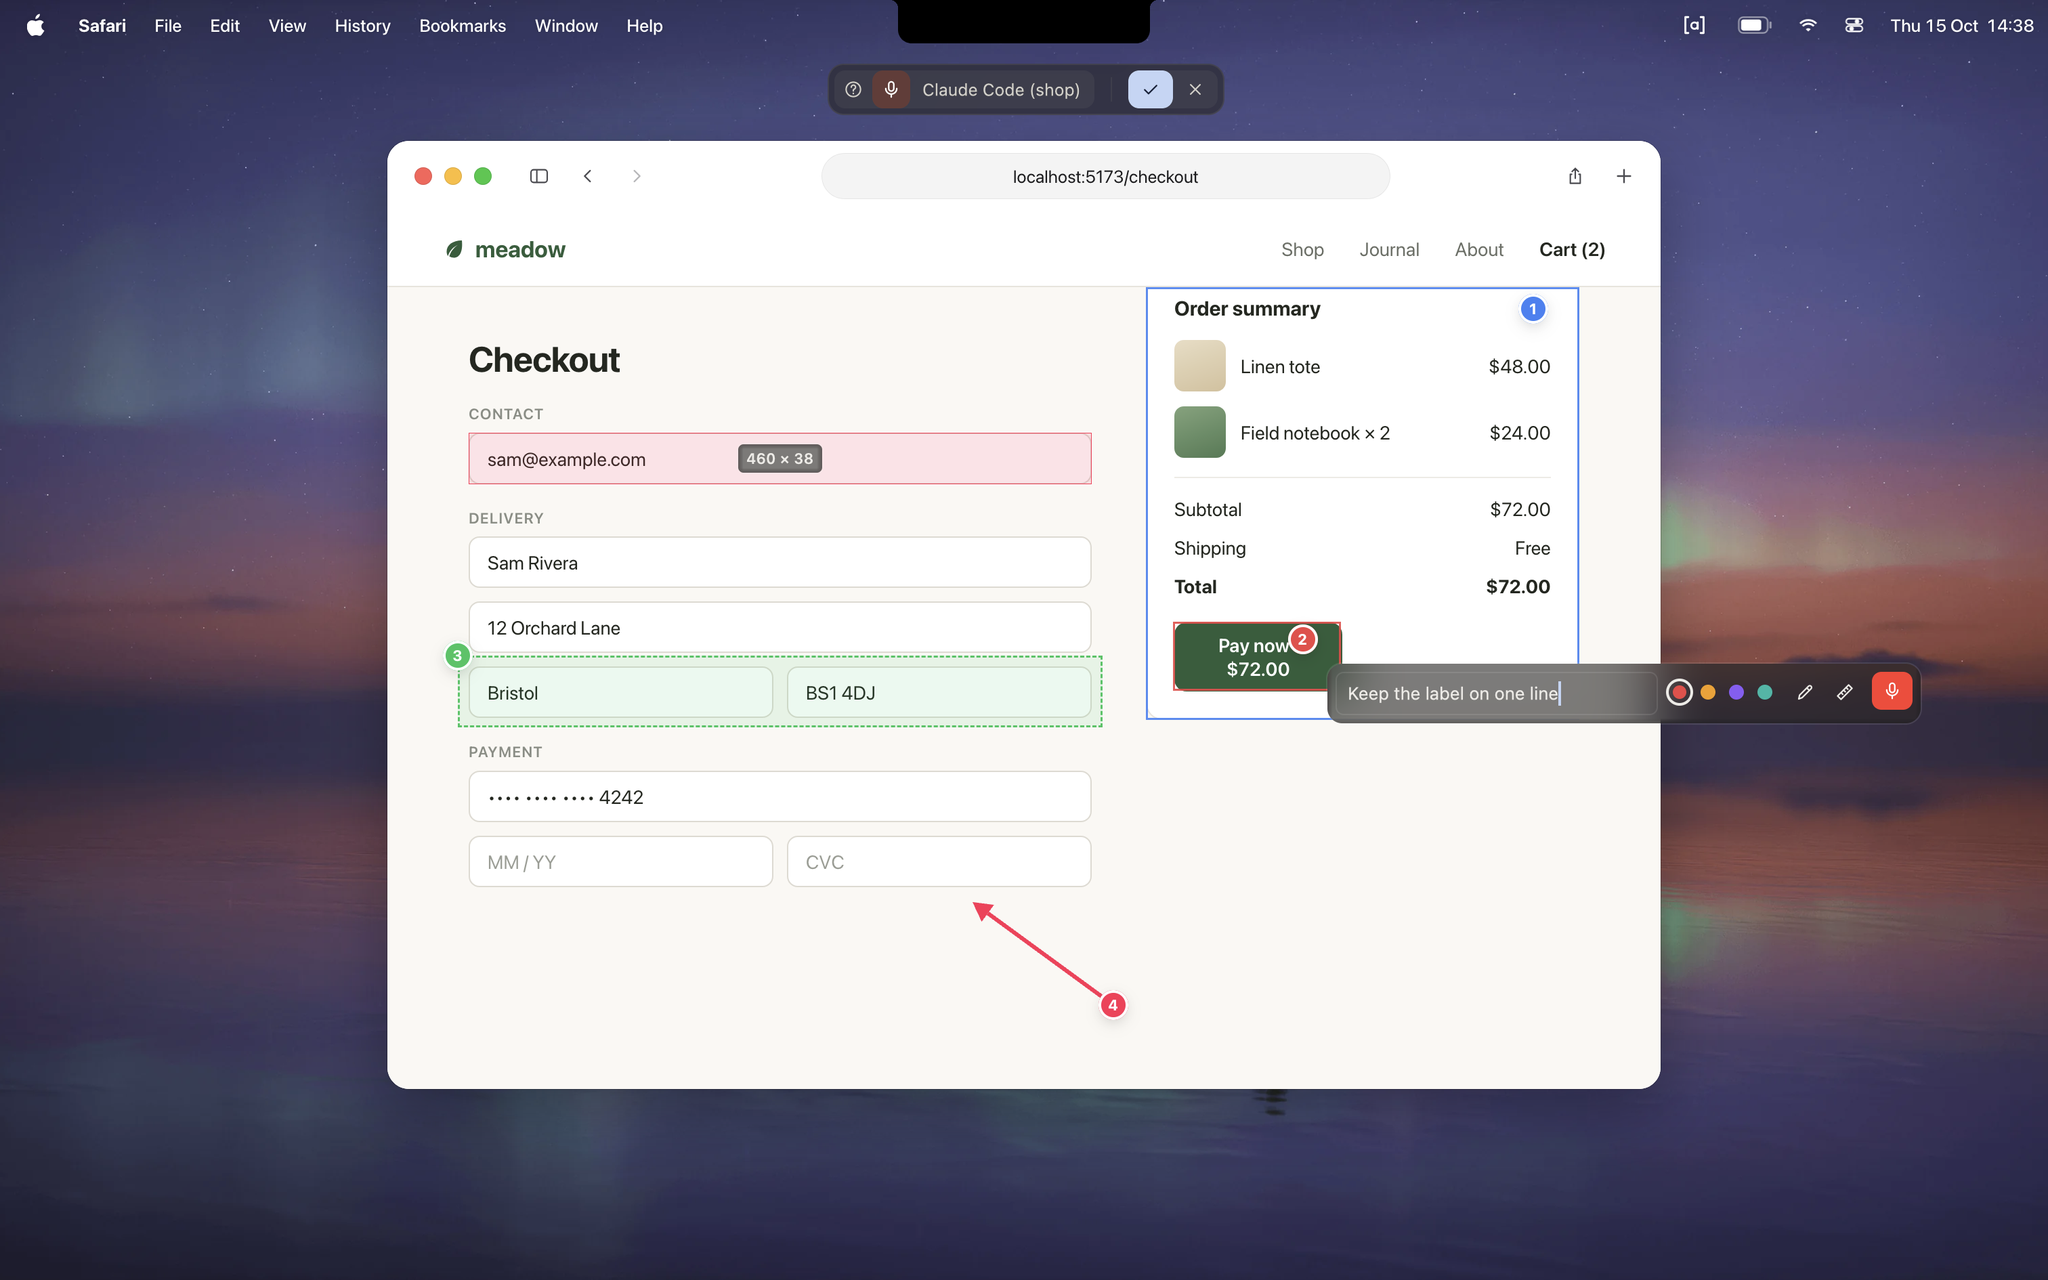
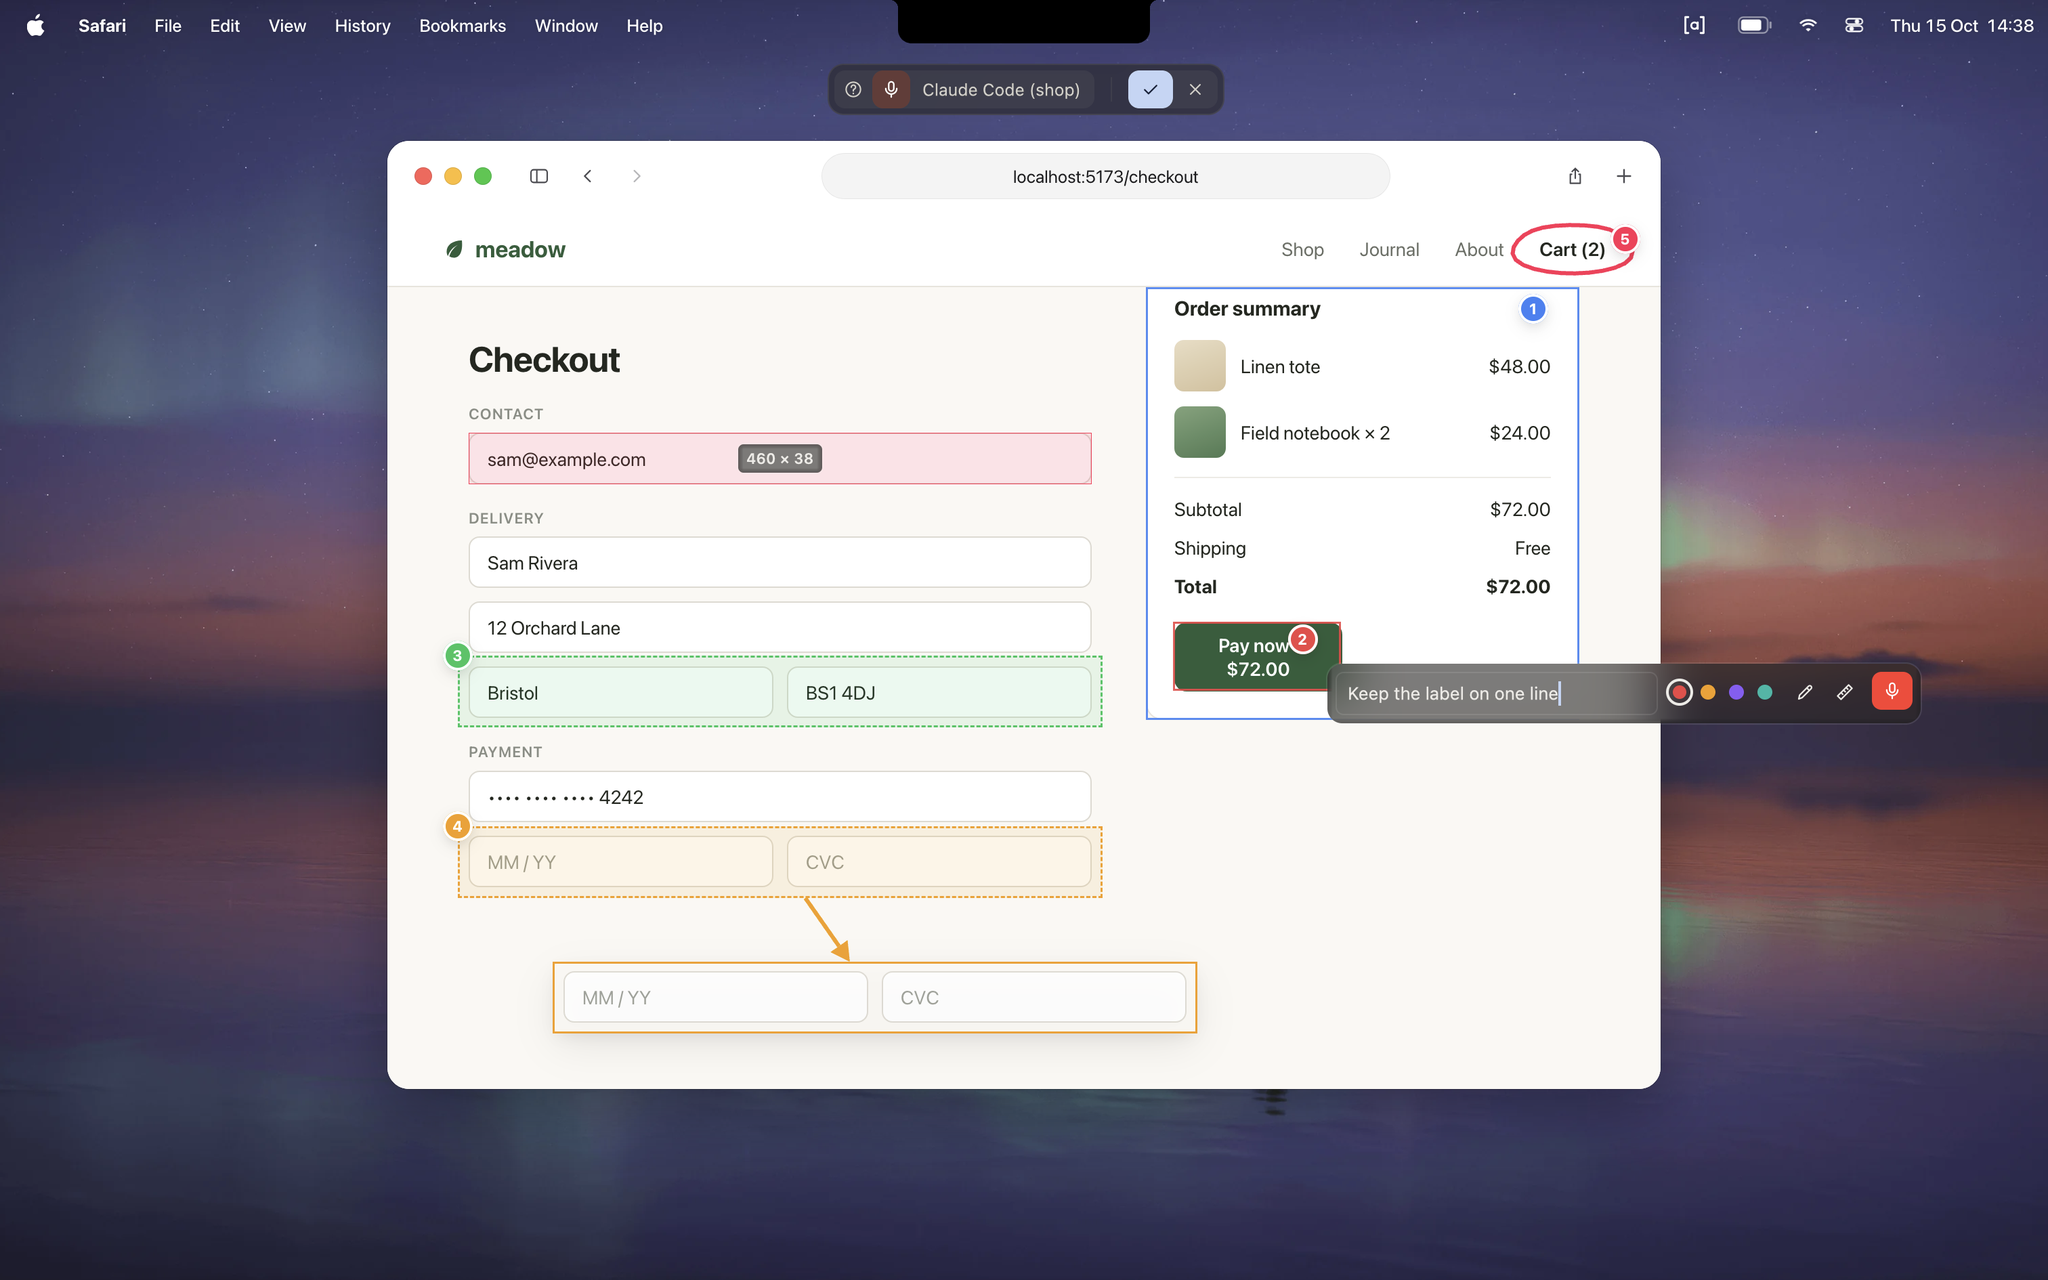
Show moving an area in the README picture
The picture's arrow was a drawing, which read as something moved without
being what asides shows when something is. Pin 4 is now an area around the
expiry and the security code, moved by its number: its copy where it goes,
outlined, and the arrow there, as on screen. A ring drawn around the cart
keeps a sketch in the picture.

diff --git a/scripts/make-screenshot.py b/scripts/make-screenshot.py
@@ -1,6 +1,6 @@
 """Renders guide/overlay.png, the README's picture of asides: the real overlay over the website demo's
-checkout page, with all it does: the pill recording, pins on elements and an area, a pin's card typed
-in, a measurement and an arrow.
+checkout page, with all it does: the pill recording, pins on elements and an area, an area moved by
+its number, a pin's card typed in, a measurement and a sketch.
 
 The screen is the demo's desktop from docs/index.html (rendered with Firefox), Safari alone over
 readme-wallpaper.webp (beside this script); the overlay is
@@ -71,6 +71,7 @@ card = {**page_of, "name": 'group "Order summary"', "selector": "main > aside.su
 pay = {**page_of, "name": 'button "Pay now · $72.00"', "selector": "aside.summary > button.pay",
        "frame": frame(604, 417, 124, 51)}
 city = {**page_of, "name": 'group "Delivery"', "selector": "form > div.pair", "frame": frame(85, 450, 458, 37)}
+expiry = {**page_of, "name": 'group "Payment"', "selector": "form > div.pair", "frame": frame(85, 576, 458, 37)}
 
 
 def pin(at, element):
@@ -85,6 +86,14 @@ def drag(points, **keys):
             {"up": points[-1], **keys, "wait": 200}]
 
 
+def ring(cx, cy, rx, ry):
+    """A hand-drawn ellipse around (cx, cy): a little more than once round, a little uneven."""
+    import math
+    turns = [i / 28 * 2.15 * math.pi - 0.4 for i in range(29)]
+    return [at(cx + rx * (1 + 0.04 * math.sin(3 * t)) * math.cos(t), cy + ry * (1 + 0.06 * math.cos(2 * t)) * math.sin(t))
+            for t in turns]
+
+
 replay = [
     {"wait": 500},
     {"recording": 14},
@@ -92,10 +101,14 @@ replay = [
     *pin(at(700, 430), pay),
     # An area: a drag around the city and the postcode.
     {"move": at(76, 442), "wait": 150}, *drag([at(76, 442), at(300, 470), at(552, 495)]), {"answer": city},
+    # Another around the expiry and the security code, then moved by its number: a copy where it
+    # goes, and an arrow there.
+    {"move": at(76, 568), "wait": 150}, *drag([at(76, 568), at(300, 595), at(552, 621)]), {"answer": expiry},
+    *drag([at(76, 568), at(110, 610), at(146, 668)]),
     # Measure: a drag around the email field snaps to it.
     {"key": "m", "wait": 150}, *drag([at(76, 277.5), at(210, 295), at(552, 330)]),
-    # Draw: an arrow (⇧) at the security code.
-    {"key": "d", "wait": 150}, *drag([at(560, 700), at(510, 664), at(456, 624)], shift=True),
+    # Draw: a ring around the cart.
+    {"key": "d", "wait": 150}, *drag(ring(899, 142, 44, 19)),
     {"key": "a", "wait": 200},
     # The Pay button's card, opened from its number: typed in, and a fix (⌘1).
     {"down": at(700, 430)}, {"up": at(700, 430), "wait": 250},

diff --git a/README.md b/README.md
@@ -4,7 +4,7 @@
 own message, with the screenshot, the elements you clicked and what you measured. Transcribed
 locally, on your Mac.
 
-![asides over a checkout page: the pill recording, pins on an element and an area, a pin's card typed in, a measured field and an arrow](guide/overlay.png)
+![asides over a checkout page: the pill recording, pins on elements and areas, an area moved by its number, a pin's card typed in, a measured field and a sketch](guide/overlay.png)
 
 ```
 ⌃⌥Space   freeze the screen (and start listening)
